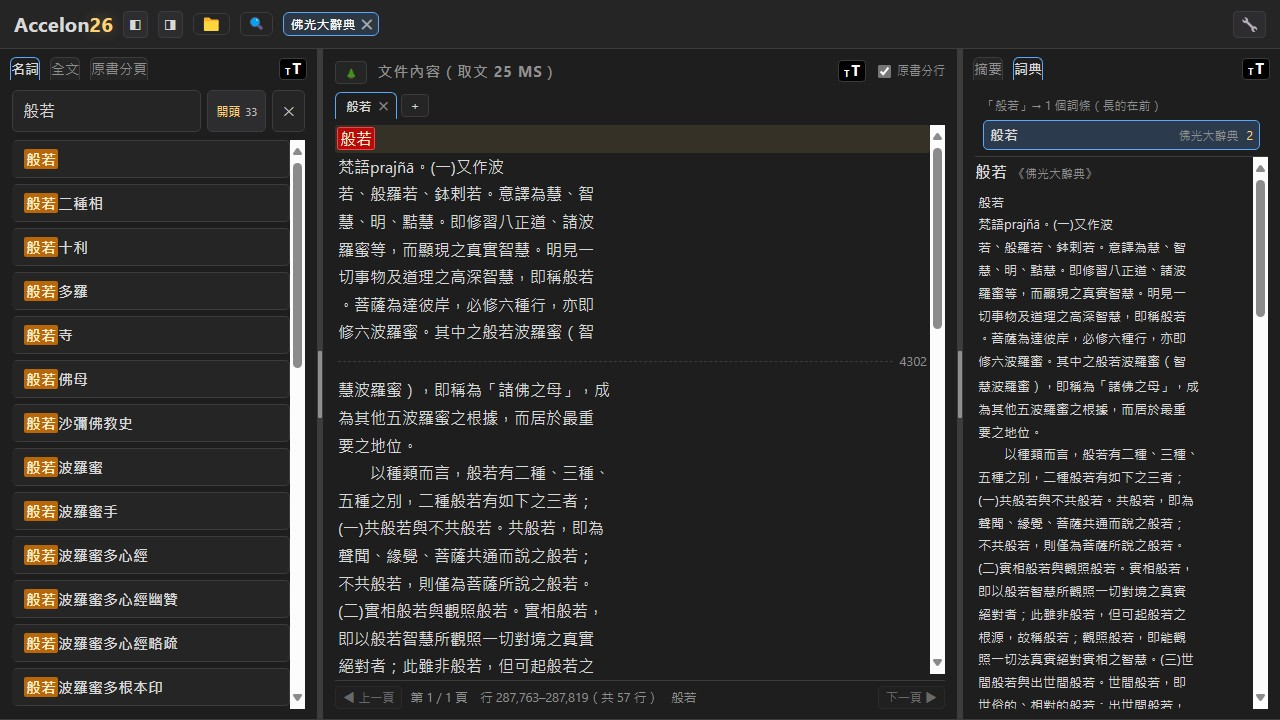
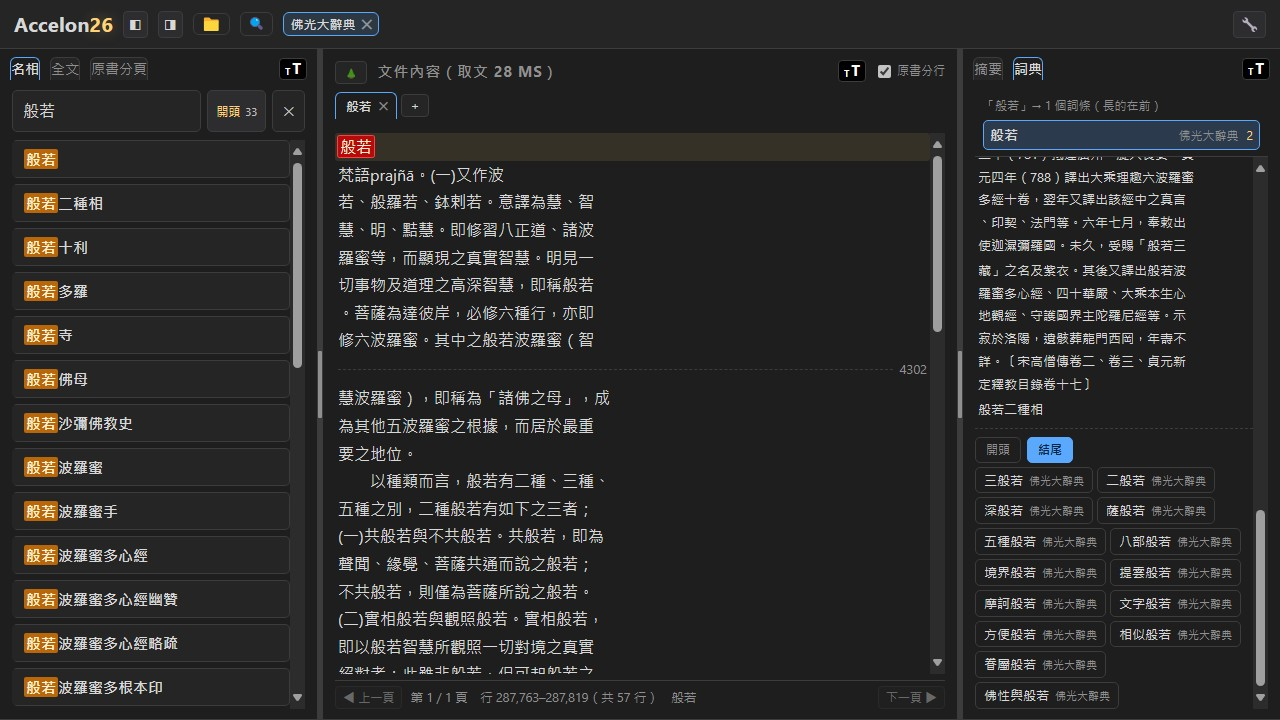
site: 詞典截圖改拍般若的「結尾」清單

diff --git a/ts/tools/site-shots.ts b/ts/tools/site-shots.ts
@@ -25,6 +25,11 @@ const opt = (n: string, d: string) => { const i = args.indexOf('--' + n); return
 const ROOT = resolve(import.meta.dir, '../..');
 const HTML = resolve(opt('html', resolve(ROOT, 'build/accelon26.html')));
 const OUT = resolve(opt('out', resolve(ROOT, 'www/img')));
+// 只拍其中一張（作者 2026-10-22：官網只換詞典那張時，不必四張全重生）
+//   --only dict   只拍 dict.jpg
+//   不給就是四張全拍
+const only = opt('only', 'all');
+const want = (s: string) => only === 'all' || only === s;
 const W = 1280;
 const H = 720;
 // 720p（作者 2026-10-18）：視窗小、字就相對大；1x 輸出，官網上縮到 60% 寬時字還看得清。
@@ -195,74 +200,95 @@ mkdirSync(OUT, { recursive: true });
 console.log(`拍 ${W}×${H} ×${SCALE} q${QUALITY} → ${OUT}`);
 
 // ================================================================ 1) 全文搜尋
-await ready();
-await openAdb('13j.adb');
-await cdp.eval(`(() => {
-  const q = document.querySelector('#query');
-  q.value = '君子';
-  q.dispatchEvent(new Event('input'));
-})()`);
-await until(`document.querySelectorAll('#searchList .snippet').length > 3`);
-await cdp.eval('document.querySelector("#searchList .snippet")?.click()');
-await until(`document.querySelectorAll('#docText mark.docHit').length > 0`);
-await shot('search.jpg');
+if (want('search') || want('tour')) {
+  await ready();
+  await openAdb('13j.adb');
+  await cdp.eval(`(() => {
+    const q = document.querySelector('#query');
+    q.value = '君子';
+    q.dispatchEvent(new Event('input'));
+  })()`);
+  await until(`document.querySelectorAll('#searchList .snippet').length > 3`);
+  await cdp.eval('document.querySelector("#searchList .snippet")?.click()');
+  await until(`document.querySelectorAll('#docText mark.docHit').length > 0`);
+  if (want('search')) await shot('search.jpg');
+}
 
 // ================================================================ 2) 操作導覽
 // 停在「本文跳到那一句、命中塗紅」那一步：聚光燈照著本文，氣泡正在解說
-await cdp.eval('void window.__accelon26.playTour("first-run", 2)');
-await until(`(() => {
-  const st = window.__accelon26.tourState();
-  return st.point === '#docText' && st.spot && st.spot.visible;
-})()`);
-await sleep(900);
-await shot('tour.jpg');
-await cdp.eval('window.__accelon26.stopTour()');
-await sleep(400);
+if (want('tour')) {
+  await cdp.eval('void window.__accelon26.playTour("first-run", 2)');
+  await until(`(() => {
+    const st = window.__accelon26.tourState();
+    return st.point === '#docText' && st.spot && st.spot.visible;
+  })()`);
+  await sleep(900);
+  await shot('tour.jpg');
+  await cdp.eval('window.__accelon26.stopTour()');
+  await sleep(400);
+}
 
 // ================================================================ 3) 詞典（重新載入，畫面乾淨）
-await reload();
-await openAdb('fgdict.adb');
-// 名詞：查「般若」→ 點第一列（中間就顯示那個詞條的正文）
-await cdp.eval(`(() => {
-  const q = document.querySelector('#termsQuery');
-  q.value = '般若';
-  q.dispatchEvent(new Event('input'));
-})()`);
-// 等的是「列表真的換成般若那幾條」——剛開庫時未篩選的列表已經有 .snippet，
-// 只等 .snippet 會點到舊的「一」（作者 2026-10-18 的截圖踩過）
-await until(`(document.querySelector('#termsList .snippet b')?.textContent ?? '').includes('般若')`);
-await cdp.eval('document.querySelector("#termsList .snippet")?.click()');
-await until(`document.querySelectorAll('#docText .docLine').length > 0`);
-await until(`(document.querySelector('#docTabStrip .docTab .docTabName')?.textContent ?? '').startsWith('般若')`);
-await sleep(700);
-// 右欄「詞典」：同樣查般若，上面列詞條、下面是釋文
-await cdp.eval(`(() => {
-  const btn = document.querySelector('#colRight .tabBtn[data-tab="dict"]');
-  if (btn) btn.click();
-})()`);
-await sleep(400);
-await cdp.eval('window.__accelon26.dictLookupAt("般若")');
-await until(`document.querySelectorAll('#dictList .dictItem').length > 0`);
-await sleep(1500);
-await shot('dict.jpg');
+if (want('dict')) {
+  await reload();
+  await openAdb('fgdict.adb');
+  // 名詞：查「般若」→ 點第一列（中間就顯示那個詞條的正文）
+  await cdp.eval(`(() => {
+    const q = document.querySelector('#termsQuery');
+    q.value = '般若';
+    q.dispatchEvent(new Event('input'));
+  })()`);
+  // 等的是「列表真的換成般若那幾條」——剛開庫時未篩選的列表已經有 .snippet，
+  // 只等 .snippet 會點到舊的「一」（作者 2026-10-18 的截圖踩過）
+  await until(`(document.querySelector('#termsList .snippet b')?.textContent ?? '').includes('般若')`);
+  await cdp.eval('document.querySelector("#termsList .snippet")?.click()');
+  await until(`document.querySelectorAll('#docText .docLine').length > 0`);
+  await until(`(document.querySelector('#docTabStrip .docTab .docTabName')?.textContent ?? '').startsWith('般若')`);
+  await sleep(700);
+  // 右欄「詞典」：同樣查般若，上面列詞條、下面是釋文
+  await cdp.eval(`(() => {
+    const btn = document.querySelector('#colRight .tabBtn[data-tab="dict"]');
+    if (btn) btn.click();
+  })()`);
+  await sleep(400);
+  await cdp.eval('window.__accelon26.dictLookupAt("般若")');
+  await until(`document.querySelectorAll('#dictList .dictItem').length > 0`);
+  await sleep(1500);
+  // 作者 2026-10-22：釋文下面切到「結尾」，列出摩訶般若、文字般若……，
+  // 這才是這頁真正的特色（左欄仍是開頭清單，兩邊對照）。
+  await cdp.eval(`(() => {
+    const b = document.querySelector('#dictBody .dictMoreTab[data-kind="end"]');
+    b?.click();
+  })()`);
+  await until(`!!document.querySelector('#dictBody .dictMoreTab[data-kind="end"].active')
+    && document.querySelectorAll('#dictBody .dictRel').length > 5`);
+  await cdp.eval(`(() => {
+    const b = document.querySelector('#dictBody');
+    if (b) b.scrollTop = b.scrollHeight;
+  })()`);
+  await sleep(900);
+  await shot('dict.jpg');
+}
 
 // ================================================================ 4) 搜尋所有資料庫
 // 重新載入：換庫時若前一個庫有本文分頁，它會留在中間（截圖不要拍到）。
 // 這裡兩個庫都不開任何本文分頁，所以畫面乾淨。
-await reload();
-await openAdb('13j.adb');
-await openAdb('fgdict.adb');   // 第二個庫（兩個都在 catalog 裡）
-await cdp.eval('window.__accelon26.openSearchAll()');
-await sleep(400);
-await cdp.eval(`(() => {
-  const q = document.querySelector('#allSearchQuery');
-  q.value = '般若';
-  document.querySelector('#allSearchGo').click();
-})()`);
-await until(`document.querySelectorAll('#allSearchList .allSearchRow.done').length >= 2`, 400);
-await sleep(1000);
-await shot('allsearch.jpg');
+if (want('allsearch')) {
+  await reload();
+  await openAdb('13j.adb');
+  await openAdb('fgdict.adb');   // 第二個庫（兩個都在 catalog 裡）
+  await cdp.eval('window.__accelon26.openSearchAll()');
+  await sleep(400);
+  await cdp.eval(`(() => {
+    const q = document.querySelector('#allSearchQuery');
+    q.value = '般若';
+    document.querySelector('#allSearchGo').click();
+  })()`);
+  await until(`document.querySelectorAll('#allSearchList .allSearchRow.done').length >= 2`, 400);
+  await sleep(1000);
+  await shot('allsearch.jpg');
 
-await cdp.eval('window.__accelon26.closeSearchAll()');
+  await cdp.eval('window.__accelon26.closeSearchAll()');
+}
 proc.kill();
 console.log(`\n${n} 張圖寫到 ${OUT}`);

diff --git a/www/index.html b/www/index.html
@@ -348,7 +348,7 @@
           <div class="gcap">
             <p class="on"><b>全文搜尋</b>：邊打邊查，右欄是每筆命中的上下文，點一筆本文就跳到那裡，命中的字塗紅。</p>
             <p><b>標籤樣式</b>：本文與每個標籤的顏色、字級（本文用 pt）與字型都能分別設定；每一列直接示範，天干地支只示範「甲」。</p>
-            <p><b>詞典</b>：詞典型資料庫（例如佛光大辭典）左邊查詞條、中間讀釋文，右欄還列出開頭相近的詞條。</p>
+            <p><b>詞典</b>：詞典型資料庫（例如佛光大辭典）左邊查詞條、中間讀釋文；右欄釋文下面還能切「開頭／結尾」，把以「般若」結尾的詞條一次列出來。</p>
             <p><b>一次搜尋所有資料庫</b>：先看哪一本書有命中，再決定要開哪一本，不必逐本開來試。</p>
             <p><b>操作導覽</b>：第一次用可以跟著走一遍——聚光燈指著該按的地方，一個場景一停，由你決定要不要往下。</p>
           </div>
@@ -360,7 +360,7 @@
               <img src="img/tagstyle.jpg" alt="accelon26 標籤樣式設定：本文與每個標籤的顏色、字級、字型" width="1280" height="720" loading="lazy" decoding="async">
             </figure>
             <figure class="slide">
-              <img src="img/dict.jpg" alt="accelon26 詞典分頁：詞條清單與釋文" width="1280" height="720" decoding="async">
+              <img src="img/dict.jpg" alt="accelon26 詞典分頁：般若的釋文，下面切到「結尾」列出摩訶般若、文字般若等詞條" width="1280" height="720" decoding="async">
             </figure>
             <figure class="slide">
               <img src="img/allsearch.jpg" alt="accelon26 一次搜尋所有資料庫" width="1280" height="720" loading="lazy" decoding="async">
